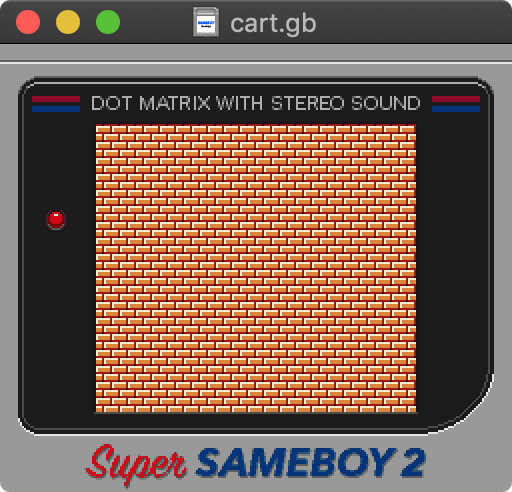
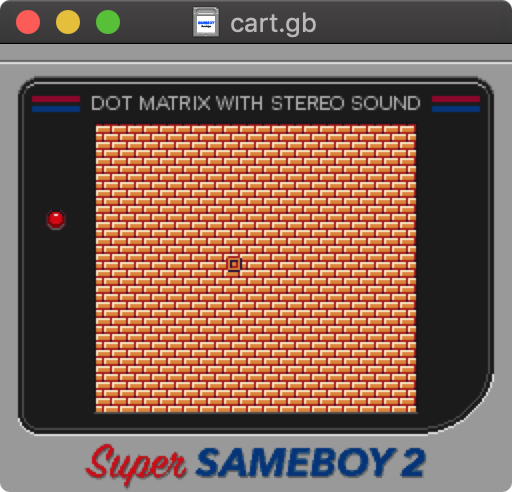
Move object instead of background

diff --git a/README.md b/README.md
@@ -1,4 +1,4 @@
-Display a simple background & scroll with the joypad.
+Display a simple background & move a simple sprite with the joypad.
 
 ![screenshot](images/screenshot.png)
 
